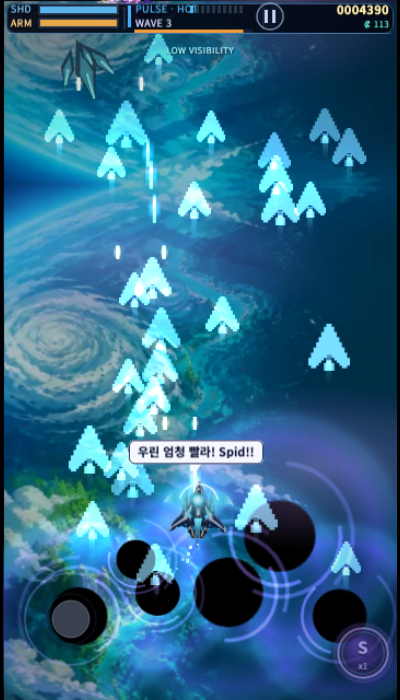
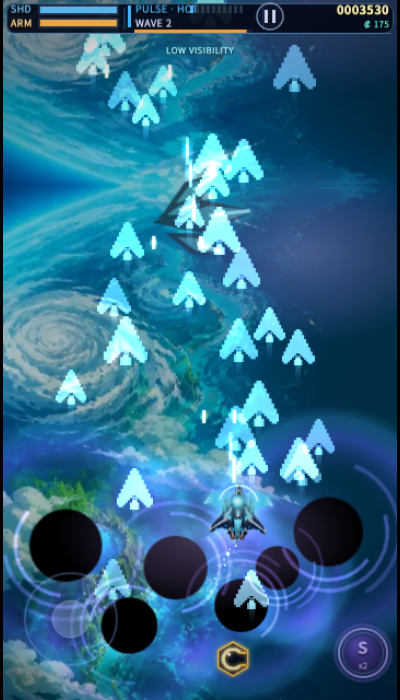
생성기 출력을 prettier 형식으로 고정 + 소크 스크린샷 갱신
gen-boss-layout.mjs 가 JSON.stringify(…,2) 로 써서 prettier 와 형식이
달랐다. 그래서 생성 → format 을 거칠 때마다 내용은 그대로인데 수백 줄짜리
diff 가 생겨 리뷰가 오염됐다(직전 커밋에서 실제로 발생). 생성 직후
prettier 를 적용해 재생성해도 diff 가 0 이 되게 한다.

tests/scripts 의 포맷 정리와 새 보스 기준으로 다시 찍힌 소크 스크린샷을
함께 반영한다.

diff --git a/tests/bosses.test.ts b/tests/bosses.test.ts
@@ -360,10 +360,13 @@ describe('boss v2 data integrity', () => {
       const presentation = boss.presentation;
       if (!presentation) continue;
       const spawnY = -presentation.displayHeight / 2 - 40;
-      expect(spawnY + presentation.displayHeight / 2, `${bossId} spawns already visible`).toBeLessThan(
-        0,
+      expect(
+        spawnY + presentation.displayHeight / 2,
+        `${bossId} spawns already visible`,
+      ).toBeLessThan(0);
+      expect(boss.entryY, `${bossId} entry target is below its spawn point`).toBeGreaterThan(
+        spawnY,
       );
-      expect(boss.entryY, `${bossId} entry target is below its spawn point`).toBeGreaterThan(spawnY);
     }
   });
 
@@ -383,7 +386,8 @@ describe('boss v2 data integrity', () => {
       }
       // crop 파트는 선체 그림에 정확히 겹쳐져야 하므로 흔들리는 모션을 붙이면 이음매가 드러난다.
       for (const part of parts) {
-        if (part.crop) expect(part.motion, `${bossId}.${part.id} crop part must not drift`).toBeUndefined();
+        if (part.crop)
+          expect(part.motion, `${bossId}.${part.id} crop part must not drift`).toBeUndefined();
       }
     }
   });
@@ -433,10 +437,9 @@ describe('boss v2 data integrity', () => {
     for (const eye of eyes) {
       // 눈은 머리(아트 상단)에 있어야 한다.
       expect(eye.dy, `${eye.id} sits on the head`).toBeLessThan(0);
-      expect(
-        snail.entryY + eye.dy,
-        `${eye.id} must be reachable on screen`,
-      ).toBeGreaterThanOrEqual(GATE_Y_RANGE[0]);
+      expect(snail.entryY + eye.dy, `${eye.id} must be reachable on screen`).toBeGreaterThanOrEqual(
+        GATE_Y_RANGE[0],
+      );
     }
 
     const heart = (snail.parts ?? []).find((part) => part.role === 'weakpoint');

diff --git a/tests/waves.test.ts b/tests/waves.test.ts
@@ -42,7 +42,7 @@ describe('buildLevelWave', () => {
   it('spawns denser formations than the authored counts, scaled by difficulty', () => {
     const seeded = () => {
       let s = 1;
-      return () => ((s = (s * 1103515245 + 12345) % 2147483648) / 2147483648);
+      return () => (s = (s * 1103515245 + 12345) % 2147483648) / 2147483648;
     };
     const enemies = (density: number): number =>
       buildLevelWave(0, 0, seeded(), density).filter((e) => e.kind === 'enemy').length;
